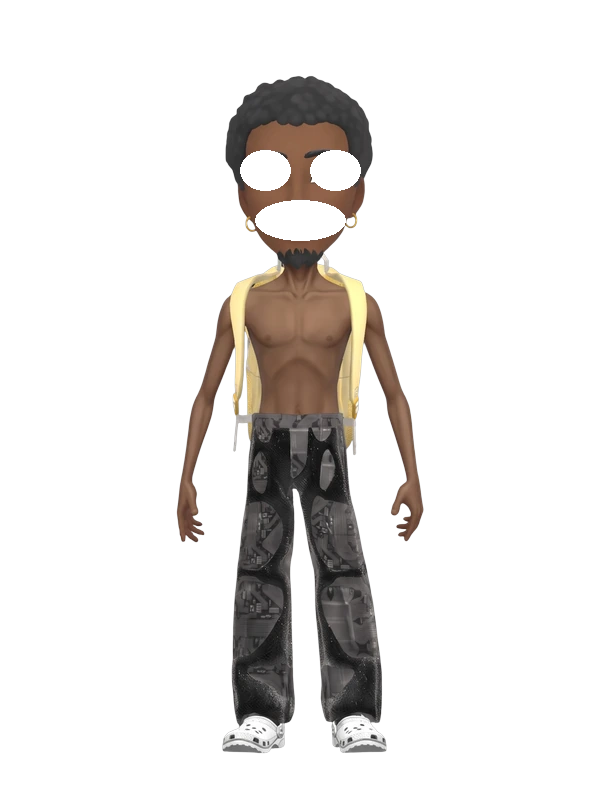
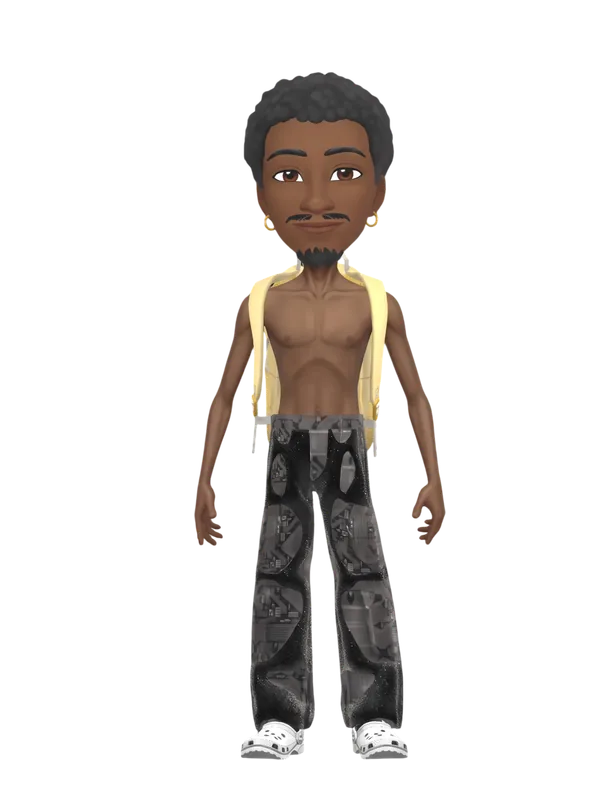
Crid: two real lean bodies, seven sizes to grow through
body-000 and body-00 were the eye/mouth socket cut-outs, never drawn. They are
now the owner's complete lean drawings, framed exactly like body-0: 600x800,
ink 688px tall, feet on y=760, body centre on x=320 (the axis the five shipped
bodies already share), ICC profile stripped.

BODIES goes lean -> fat: 000, 00, 3, 0, 5, 1, 2, and SUB_STEPS is re-spaced for
seven even steps, [0,4,8,12,16,20,24] — same first and last threshold as before,
so the top shape still lands at 24 subs.

Changed region(s): [[0.27, 0.0938, 0.75, 0.9688]]

diff --git a/public/desk-assets/crid-bot.js b/public/desk-assets/crid-bot.js
@@ -4,22 +4,20 @@
 
    Sprite: ./desk-assets/crid/body-<shape>-r7.webp (600x800, downscaled from the 1050x1400 masters:
    the biggest he is ever drawn is 340 CSS px wide, so 600px is ~2.5x the display box and ~1.3x a
-   retina one). Shapes lean -> fattest: 3, 0, 5, 1, 2. Each frame is a COMPLETE drawing with its own
-   painted face, so he is drawn as one layer. The eyes-<state>/mouth-<state> frames were never
+   retina one). Shapes lean -> fattest: 000, 00, 3, 0, 5, 1, 2. Each frame is a COMPLETE drawing with
+   its own painted face, so he is drawn as one layer. The eyes-<state>/mouth-<state> frames were never
    registered to these bodies (a different scale and position, squeezed into a 44x22 box over a face
    that already has eyes) and produced a second ghost face; they are unused until a real registered
    rig is built. Emotion therefore comes from a body swap + a motion beat + a hold — see FEEL.
-   The two other frames in ./crid, body-000 and body-00, are NOT complete drawings: they have the
-   eyes and mouth cut clean out (43% of the face box is transparent, against 0.4% on these five),
-   so on their own they read as a blank-faced head. They are the rig's sockets, and under one-drawing
-   they are not drawn at all.
+   All seven frames share one framing: ink 688px tall, feet on y=760, the body's centre of mass on
+   x=320 — so a body swap is a change of build, never a jump sideways or a change of height.
    Growth: every sub moves him up a notch. SUB_STEPS is where each body shape takes over, and
    between shapes he widens a little (STAGE_STRETCH) so every single sub is visible. The size is
    worked out from the sub total each time, so an overlay reload mid-stream restores it.
    Feed it with observe(state) where state.bot.subs is the sub count this stream, or call setSubs(n). */
 const NS="http://www.w3.org/2000/svg",XLINK="http://www.w3.org/1999/xlink",PAL={onyx:"#1F1736",screen:"#0F0B17",edge:"#3A1D9E",indigo:"#6531F8",indigoDk:"#3A1D9E",mint:"#86F6BC",bone:"#A98BFF",ink:"#F4F0FF",slate:"#2B2738",red:"#FF5B57",dead:"#5E5873"},
-DOZE_AFTER_MS=12e4,BODIES=[3,0,5,1,2],ROT=7,ASSETS="./desk-assets/crid",AV=b=>`${ASSETS}/body-${b}-r${ROT}.webp`,
-SUB_STEPS=[0,4,9,16,24],STAGE_STRETCH=.06,
+DOZE_AFTER_MS=12e4,BODIES=["000","00",3,0,5,1,2],ROT=7,ASSETS="./desk-assets/crid",AV=b=>`${ASSETS}/body-${b}-r${ROT}.webp`,
+SUB_STEPS=[0,4,8,12,16,20,24],STAGE_STRETCH=.06,
 // The eight micro-emotions from brain/micro-emotions.mjs. A painted face cannot be swapped, so a
 // feeling is a whole drawing that changes and is moved well: a different body (they carry their own
 // face and stance — 2 is turned away, 1 is the heaviest), one of the gesture sequences, and how long
@@ -28,7 +26,7 @@ FEEL={curious:{body:"3",seq:"peek",hold:1500},delighted:{body:"0",seq:"hop",hold
   smug:{body:"1",seq:"sideeye",hold:1900},flustered:{body:"5",seq:"wince",hold:1200},
   sleepy:{body:"1",seq:"sit",hold:2400},startled:{body:"2",seq:"surprise",hold:1000},
   proud:{body:"0",seq:"nod",hold:1700},sulky:{body:"3",seq:"shrug",hold:2100}},
-// Measured ink box of the five body frames (600x800): the feet stop at y=757, so a frame drawn to the
+// Measured ink box of all seven body frames (600x800): the feet stop at y=757, so a frame drawn to the
 // box edge leaves him hovering ~7% of his height over the floor. The sprite is drawn so the feet land
 // exactly on the box bottom, which is the floor band at every ?bot.scale= — the shadow is a filter on
 // the same drawing, so it tracks him.
